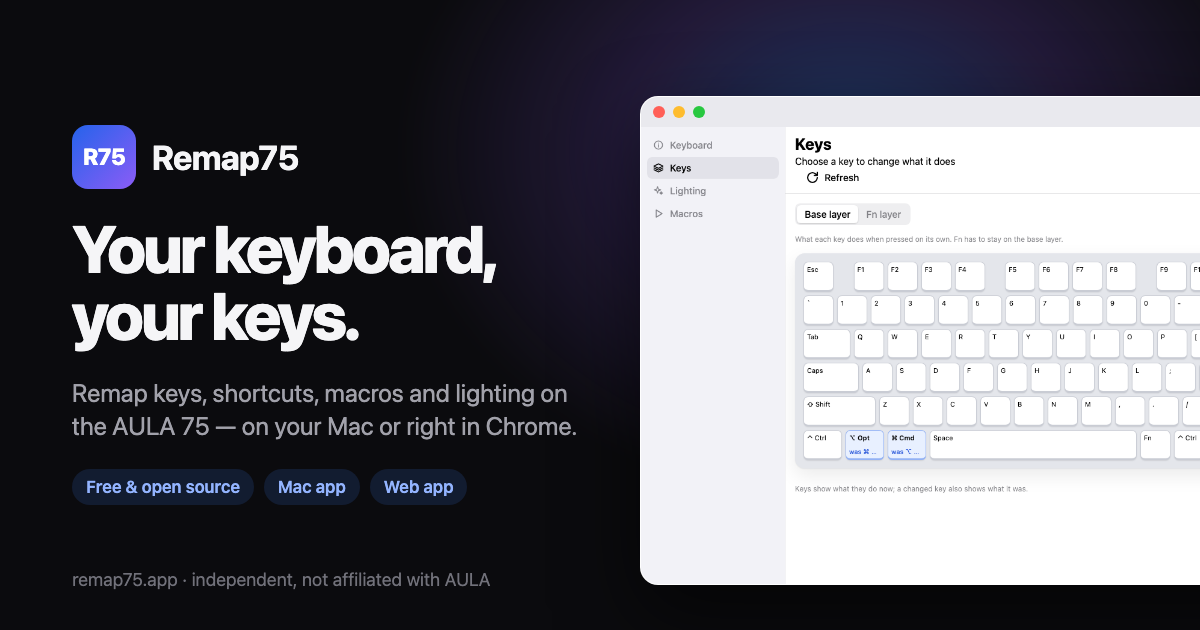
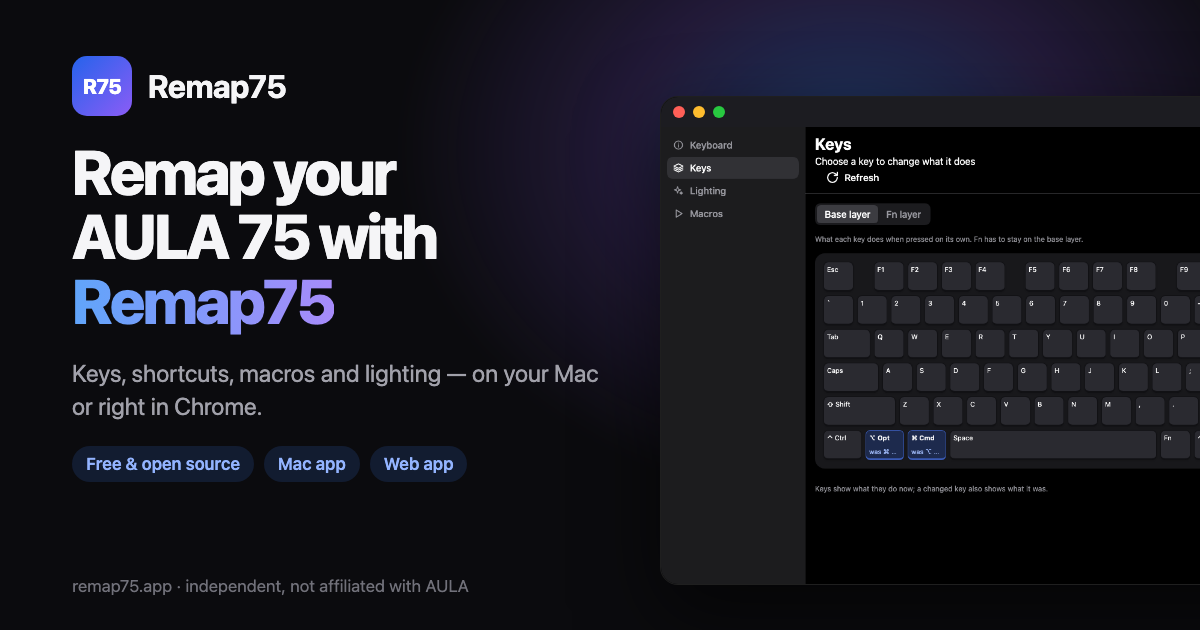
OG image and title: Remap your AULA 75 with Remap75; template kept in site/og

diff --git a/site/og/og.html b/site/og/og.html
@@ -1,0 +1,29 @@
+<!doctype html><html><head><meta charset="utf-8"><style>
+*{box-sizing:border-box;margin:0}
+html,body{width:1200px;height:630px;overflow:hidden}
+body{font-family:-apple-system,BlinkMacSystemFont,"SF Pro Display",Inter,system-ui,sans-serif;background:#0b0b0e;color:#f5f5f7;position:relative}
+.glow{position:absolute;inset:-200px -100px auto auto;width:900px;height:700px;border-radius:50%;background:radial-gradient(closest-side,rgba(59,130,246,.35),rgba(139,92,246,.18),transparent);filter:blur(10px)}
+.left{position:absolute;left:72px;top:56px;width:540px;display:flex;flex-direction:column;gap:24px}
+.brand{display:flex;align-items:center;gap:16px;font-size:32px;font-weight:700;letter-spacing:-.02em}
+.logo{width:60px;height:60px;border-radius:15px;background:linear-gradient(135deg,#2563eb,#8b5cf6);display:grid;place-items:center;font-weight:800;font-size:21px;color:#fff;letter-spacing:-.5px}
+h1{font-size:62px;line-height:1.04;letter-spacing:-.04em;font-weight:800}
+.hl{background:linear-gradient(90deg,#60a5fa,#a78bfa);-webkit-background-clip:text;background-clip:text;color:transparent}
+p{font-size:24px;line-height:1.35;color:#a1a1aa}
+.pills{display:flex;gap:10px;flex-wrap:wrap}
+.pill{font-size:17px;font-weight:600;padding:8px 14px;border-radius:999px;background:rgba(59,130,246,.15);color:#93b4ff}
+.shot{position:absolute;left:660px;top:96px;width:760px;border-radius:18px;overflow:hidden;border:1px solid rgba(255,255,255,.12);box-shadow:0 30px 80px rgba(0,0,0,.6);background:#000}
+.bar{height:30px;background:#1c1c21;display:flex;gap:8px;align-items:center;padding:0 12px}
+.bar i{width:12px;height:12px;border-radius:50%;background:#ff5f57}.bar i:nth-child(2){background:#febc2e}.bar i:nth-child(3){background:#28c840}
+.shot img{display:block;width:100%}
+.foot{position:absolute;left:72px;bottom:34px;font-size:17px;color:#71717a}
+</style></head><body>
+<div class="glow"></div>
+<div class="left">
+  <div class="brand"><div class="logo">R75</div>Remap75</div>
+  <h1>Remap your AULA&nbsp;75 with <span class="hl">Remap75</span></h1>
+  <p>Keys, shortcuts, macros and lighting — on your Mac or right in Chrome.</p>
+  <div class="pills"><span class="pill">Free &amp; open source</span><span class="pill">Mac app</span><span class="pill">Web app</span></div>
+</div>
+<div class="shot"><div class="bar"><i></i><i></i><i></i></div><img src="../public/img/keys-dark.png"></div>
+<div class="foot">remap75.app · independent, not affiliated with AULA</div>
+</body></html>

diff --git a/site/index.html b/site/index.html
@@ -14,7 +14,7 @@
     <meta property="og:type" content="website" />
     <meta property="og:site_name" content="Remap75" />
     <meta property="og:url" content="https://remap75.app/" />
-    <meta property="og:title" content="Remap75 — your keyboard, your keys" />
+    <meta property="og:title" content="Remap your AULA 75 with Remap75" />
     <meta property="og:description" content="Remap keys, shortcuts, macros and lighting on the AULA 75 — free and open source, on your Mac or right in Chrome. Not affiliated with AULA." />
     <meta property="og:image" content="https://remap75.app/og.png" />
     <meta property="og:image:secure_url" content="https://remap75.app/og.png" />
@@ -26,7 +26,7 @@
 
     <!-- X / Twitter -->
     <meta name="twitter:card" content="summary_large_image" />
-    <meta name="twitter:title" content="Remap75 — your keyboard, your keys" />
+    <meta name="twitter:title" content="Remap your AULA 75 with Remap75" />
     <meta name="twitter:description" content="Remap keys, shortcuts, macros and lighting on the AULA 75 — free and open source, on your Mac or right in Chrome." />
     <meta name="twitter:image" content="https://remap75.app/og.png" />
     <meta name="twitter:image:alt" content="Remap75: the Keys screen with the left Command and Option keys swapped" />

diff --git a/site/og/README.md b/site/og/README.md
@@ -1,0 +1,12 @@
+# Link-preview image
+
+`og.html` is the 1200×630 image shown when remap75.app or web.remap75.app is shared
+(`../public/og.png`). To regenerate it after changing the page or the screenshots:
+
+```sh
+cd site/og
+"/Applications/Google Chrome.app/Contents/MacOS/Google Chrome" --headless=new --disable-gpu \
+  --hide-scrollbars --window-size=1200,630 --screenshot=../public/og.png "file://$PWD/og.html"
+```
+
+Then `bun run deploy`, and refresh the cached preview on Facebook / LinkedIn if needed.
